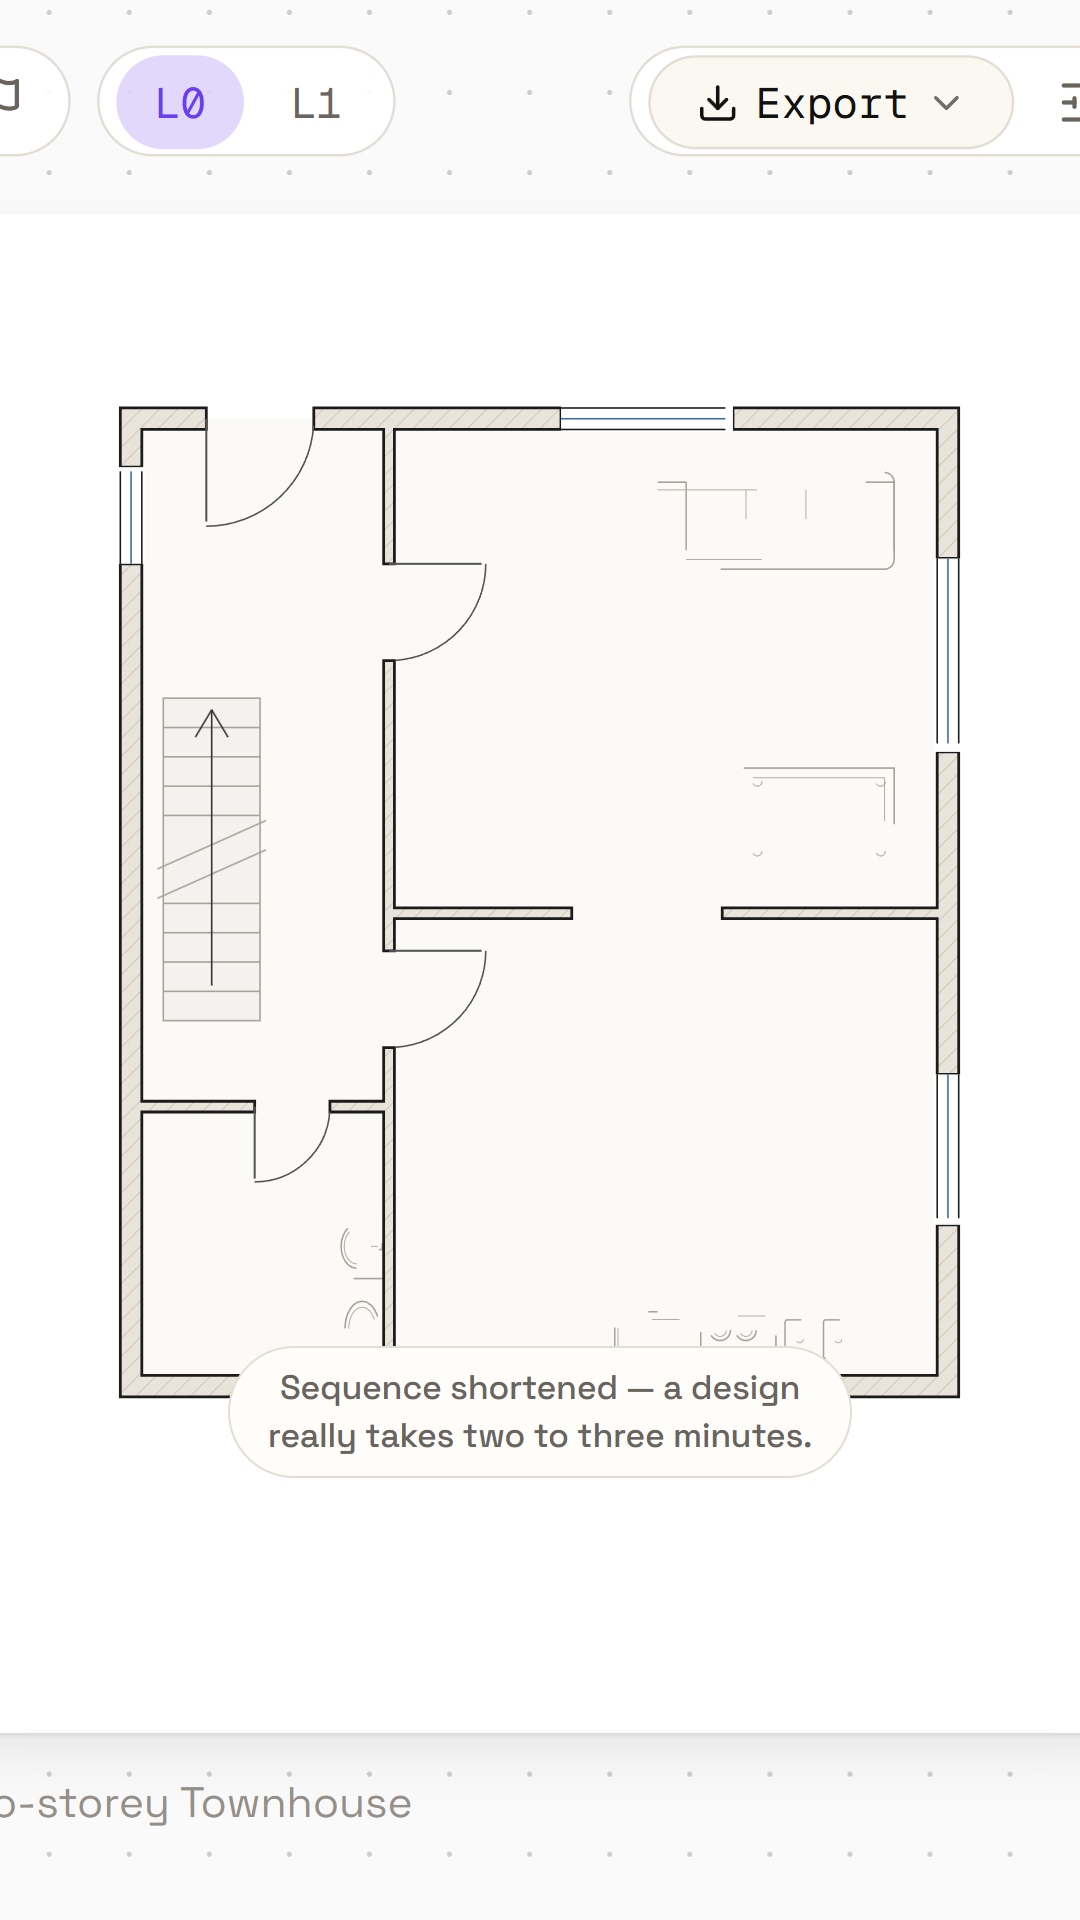
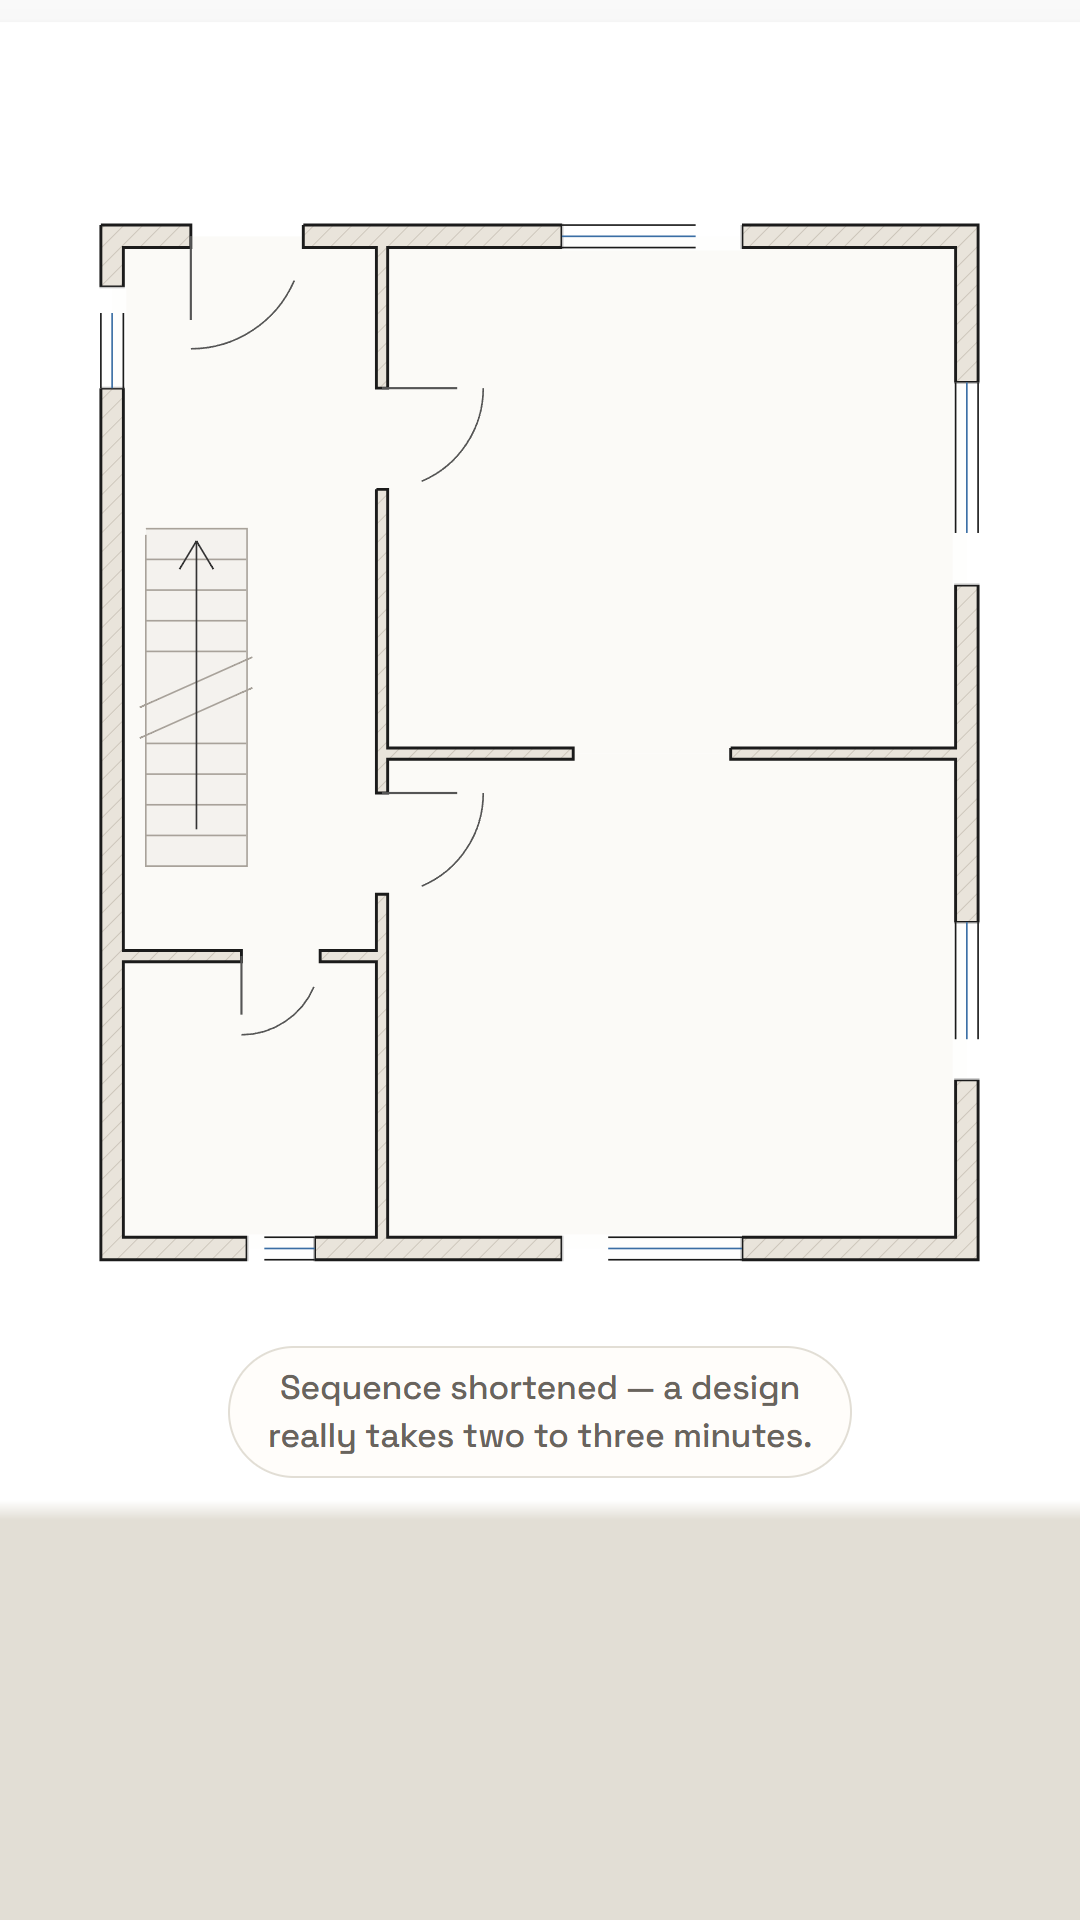
docs: D39, and the 9:16 frame-shape rules it settled
The decision record for the picture clip, the bounded translate and the hidden
drafting sheet — including what each attempt measured and why the nudge is
insurance rather than a fix today. The two standing constraints it changes go
into the skill's constraints reference, next to the rules they sit with.

diff --git a/docs/decisions.md b/docs/decisions.md
@@ -1872,3 +1872,116 @@ It is the same question as the sheet's caption row, at a larger size: in 9:16,
 during the hand-over, the frame is holding two subjects that need different
 framings. Recorded with the still rather than guessed at.
 Evidence: `out/stills/wp9/Studio-30-Vertical-9x16/08-handover+0.1s.png`.
+
+---
+
+## D39. The 9:16 picture clips, and what that settled.
+
+D38 left one question open and called it a question: in 9:16, during the
+hand-over, the frame holds two subjects that need different framings. The
+commander answered it — the picture clips at the safe line and the chapter's
+colour owns the bottom 390 px — and the answer settled two of the three findings
+outright and changed the shape of the third.
+
+### a. The clip
+
+The mount box already cleared the platform furniture: `PICTURE.portrait` bottoms
+out at 1520 against a 1530 safe line. **The mount is not the picture.**
+`camera.ts` scales the whole layer about its origin, so a 2.6x push carries
+content straight out of the box it was mounted in, and in 9:16 it lands in the
+390 px the platforms cover with their own interface.
+
+So the picture ENDS at `pictureClipBottom` and the chapter's colour owns the
+band below it — which is exactly what a `split` scene has always done with its
+type band, now one rule instead of two. A 20 px feather at the edge, because a
+hard line across the paper reads as a crop while a short one reads as the sheet
+running under the band.
+
+⚠ The clip is the MOUNT's bottom rather than the safe line, and the ten pixels
+are the point: clipping at 1530 would leave a sliver in which pushed-out content
+could still show — the same defect with a smaller number on it.
+
+⚠ **And the gates had to be told.** `camera.ts` reads `clipBottom` for
+`fillScale` and for the protection bounds, so `verify:honesty` and
+`verify:framing` passing the mount box and not the clip would have measured a
+camera the renderer does not use. That is this repo's oldest failure — the gate
+that re-implements what it checks — arriving through an omitted argument rather
+than a re-derivation. It was live for the length of one commit.
+
+### b. The nudge, and being honest about what it does
+
+A text row must be wholly inside the clip or wholly past it. `framePush` can now
+move the picture vertically by at most 48 px to make that true, choosing the
+cheaper direction, deciding it **once per beat** (the choice flips when a row is
+exactly half across, so a per-frame choice would jump by the row's own height),
+and putting the result back through the protection clamp so the honesty caption
+and the pill stay authoritative.
+
+A TRANSLATE, never a scale, and that is the whole point of the shape: expelling
+these rows raised the SCALE until the caption and the pill cropped — nine
+failures — because everything in the lower third of the 9:16 design moves
+together.
+
+**With the shipping geometry the nudge does nothing.** The clip already puts the
+sheet's caption row well below the edge, so every row is wholly outside and
+removing the nudge reddens nothing. It is the mechanism that keeps the invariant
+HOLDABLE, not a fix for a live defect, and its evidence comes from a probe that
+forces the clip into a row:
+
+| clip forced to 1780 | bisected |
+|---|---|
+| with the nudge | 2 |
+| without the nudge | 6 |
+
+The two that remain are the beats where the protection clamp eats the move,
+which is the rule working rather than failing.
+
+`verify:framing` asserts the invariant against `camera.ts`'s own
+`sheetCaptionRect` and `spec.commandBar`. Scoped to the PICTURE clip: a `split`
+scene's band is film furniture the picture deliberately runs under, and checking
+it would be asserting that a design decision is a defect.
+
+### c. The drafting sheet cannot be whole in 9:16, so it is gone
+
+The brief was to hold a framing that contains the card and then punch in.
+**Measured, that is not a punch-in.** At the money shot's framing the card is
+**2491 px wide in a 1080 px frame — 231 %**. Containing it takes a scale of about
+**1.07** against 2.60, which is a different shot; and at 1.07 the product's own
+honesty caption is back inside the frame, so it can no longer be expelled and
+`verify:honesty` fails eight ways on "whole or gone, never half".
+
+That has now been measured three times across two rounds — as a protection (the
+scale pops 1.61 → 2.71 in one frame), as an eased `lerpPush` (8 failures), and
+as arithmetic. The conclusion is the same each time and it is structural: **the
+card and the caption are vertically adjacent, so lifting one brings the other
+back.**
+
+So in 9:16 the card is GONE rather than half. A row of type is whole or it is
+gone; a card is no different, and the sheet legitimately disappears a moment
+later anyway. A HOST decision with the same standing as `closeFinding`: `state`
+is a prop, a dismissed drafting sheet is an ordinary product state, and the film
+already chooses which second of the screenplay to show. `src/replica` is
+untouched. **16:9 keeps the card**, because there it is 78 % of the frame,
+legible, with the walls coming up behind it — the hand-over reads.
+
+The `sheet` check is about cuts **through words**, not every edge. Words run
+horizontally, so a left or right edge through the card lands in the middle of
+one; a panel whose blank lower edge runs past the frame is how a full-bleed
+replica has always looked, and `draftCardBox` pads its height by 100 units for a
+stale upstream spec — asserting on that would be asserting against a labelled
+workaround. In 9:16 the picture also clips, so there the bottom counts too.
+
+### Mutation evidence
+
+| mutation | what reddens |
+|---|---|
+| keep the drafting sheet in 9:16 | 4 `sheet` per edit, one per vertical cut |
+| the clip forced through a row, nudge removed | 6 `bisected` (2 with the nudge) |
+| remove the picture clip | nothing — which is why the `bisected` assertion exists |
+
+### What this round did not settle
+
+The nudge is untested by the shipping geometry, and that is stated rather than
+hidden. If the 9:16 arrangement ever moves a text row back across the clip, the
+assertion fires and the mechanism is already there; until then it is insurance
+with a probe attached rather than a proven fix.

diff --git a/.claude/skills/promo-film/references/constraints.md b/.claude/skills/promo-film/references/constraints.md
@@ -76,6 +76,21 @@ stops being aubergine. The end wipe has its own ceiling at 0.14 (`src/tokens.ts:
 
 ## Frame shapes
 
+**In 9:16 the PICTURE CLIPS at the mount's bottom and the chapter's colour owns
+the band below it** (`pictureClipBottom`, D39). The mount already cleared the
+platform furniture; the mount is not the picture, because `camera.ts` scales the
+whole layer about its origin and a 2.6x push carries content out of the box it
+was mounted in. A text row meeting that edge is a word cut in half — the rule is
+**wholly inside the clip or wholly past it**, resolved with a bounded TRANSLATE
+(≤ 48 px) and never with scale, because expelling those rows raised the scale
+until the honesty caption and the pill cropped. `verify:framing` § `bisected`.
+
+**The drafting sheet is hidden on the 9:16 money shot.** At that framing it is
+231 % of the frame width and arrives cut through its own words; containing it
+needs a scale of 1.07 against 2.60, at which the product's caption can no longer
+be expelled. A host decision with the same standing as `closeFinding` — the
+replica is untouched. 16:9 keeps it, where it reads. `verify:honesty` § `sheet`.
+
 9:16 is re-laid-out, never cropped from 16:9. The **top 250 px and bottom 390 px belong to
 Reels / TikTok / Shorts** — type stays out of them (`stage`); the replica's `picture` box is
 deliberately larger than the type-safe stage (7.9 % at 1920×1080, 16 % at 1080×1920).
